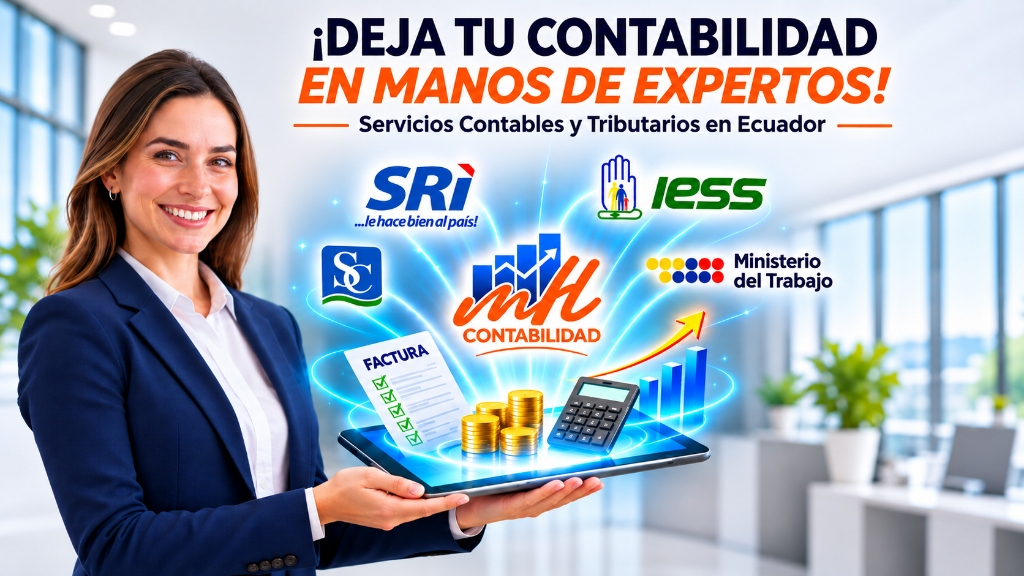
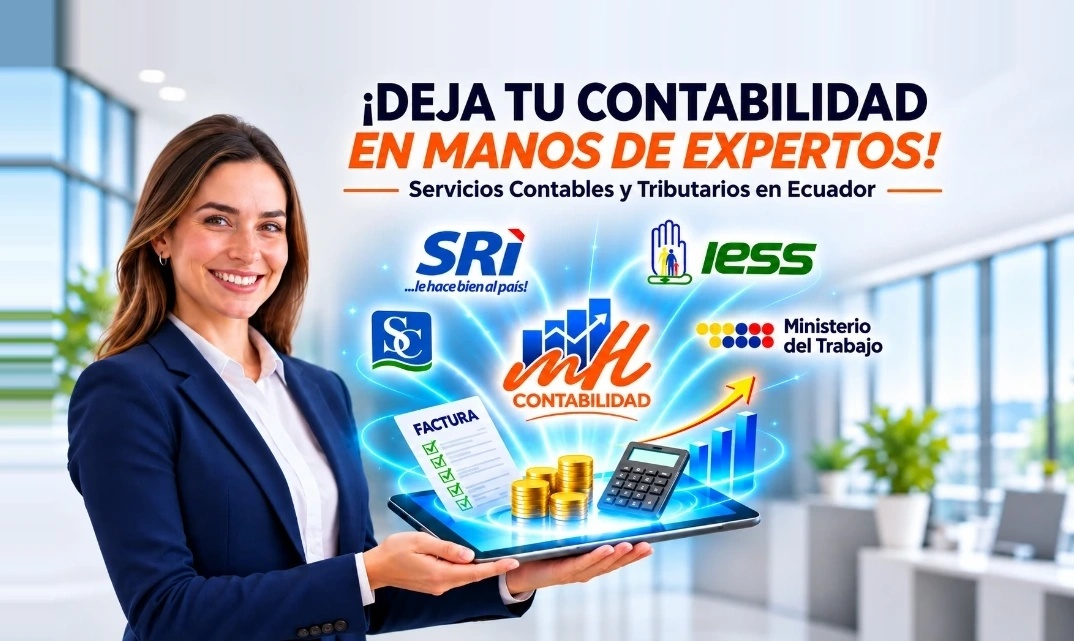
feat: optimizar encuadre de heroes, fondo continuo sin filos vacios y ajuste de diagonales

diff --git a/src/components/HeroSection.tsx b/src/components/HeroSection.tsx
@@ -3,7 +3,7 @@ import { Link } from 'react-router-dom';
 import { ArrowRight } from 'lucide-react';
 import { WhatsAppIcon } from './WhatsAppIcon';
 import { siteConfig } from '../data/siteConfig';
-import mhHeroBannerImg from '../assets/images/mh_banner_hero_oficial.webp?v=9';
+import mhHeroBannerImg from '../assets/images/mh_banner_hero_oficial.webp?v=10';
 
 export const HeroSection: React.FC = () => {
   const whatsappUrl = `https://wa.me/${siteConfig.phone.whatsappNumber}?text=${encodeURIComponent('Hola Ing. Mónica Herrera / MH Contabilidad, deseo cotizar una asesoría contable y tributaria personalizada.')}`;
@@ -68,18 +68,16 @@ export const HeroSection: React.FC = () => {
       <div className="hidden md:block">
         {/* Fondo Geométrico en Diagonal con Aristas Facetadas estilo Active Business Growth */}
         <div className="absolute inset-0 w-full h-full pointer-events-none z-0 overflow-hidden" aria-hidden="true">
-          {/* Imagen adaptada que rellena el espacio derecho con fondo integrado sin filos negros */}
+          {/* Imagen adaptada que rellena el espacio derecho ocupando todo el área sin filos vacíos */}
           <div className="absolute inset-y-0 right-0 w-[80%] lg:w-[82%] xl:w-[84%] 2xl:w-[85%] overflow-hidden bg-[#EAF1FB]">
-            <div className="w-full h-full pt-16 md:pt-20">
-              <img
-                src={mhHeroBannerImg}
-                alt="Servicios tributarios en Ecuador - MH Contabilidad"
-                className="w-full h-full object-contain object-[right_bottom] select-none filter brightness-[0.98]"
-                loading="eager"
-                fetchPriority="high"
-                decoding="async"
-              />
-            </div>
+            <img
+              src={mhHeroBannerImg}
+              alt="Servicios tributarios en Ecuador - MH Contabilidad"
+              className="w-full h-full object-contain object-[right_bottom] select-none filter brightness-[0.98]"
+              loading="eager"
+              fetchPriority="high"
+              decoding="async"
+            />
           </div>
 
           {/* Versión SVG vectorizada responsiva con línea divisora recta y bordes geométricos continuos */}
@@ -98,19 +96,19 @@ export const HeroSection: React.FC = () => {
 
             {/* Polígono oscuro principal izquierdo (#0A131F) */}
             <polygon
-              points="0,0 240,0 340,650 0,650"
+              points="0,0 260,0 360,650 0,650"
               fill="#0A131F"
             />
 
             {/* Franja continua azul a lo largo de toda la diagonal recta */}
             <polygon
-              points="246,0 266,0 366,650 346,650"
+              points="266,0 286,0 386,650 366,650"
               fill="#005BB2"
             />
 
             {/* Franja continua naranja MH completa, nítida e ininterrumpida de extremo a extremo */}
             <polygon
-              points="240,0 246,0 346,650 340,650"
+              points="260,0 266,0 366,650 360,650"
               fill="#FC6412"
             />
 
@@ -124,7 +122,7 @@ export const HeroSection: React.FC = () => {
           <div className="grid grid-cols-1 md:grid-cols-12 gap-6 lg:gap-8 items-center min-h-[520px] lg:min-h-[560px] xl:min-h-[600px] 2xl:min-h-[640px]">
             
             {/* Columna Izquierda: Información oficial centrada sobre el fondo oscuro con holgura respecto a la diagonal */}
-            <div className="md:col-span-5 lg:col-span-4 xl:col-span-4 pt-24 md:pt-26 lg:pt-28 pb-8 md:pb-10 space-y-4 text-center flex flex-col items-center justify-center max-w-[340px] sm:max-w-[360px] lg:max-w-[380px] mx-auto md:mx-0 md:-translate-x-4 lg:-translate-x-6 xl:-translate-x-8">
+            <div className="md:col-span-5 lg:col-span-4 xl:col-span-4 pt-24 md:pt-26 lg:pt-28 pb-8 md:pb-10 space-y-4 text-center flex flex-col items-center justify-center max-w-[340px] sm:max-w-[360px] lg:max-w-[380px] mx-auto md:mx-0 md:translate-x-1 lg:translate-x-2 xl:translate-x-3">
               {/* Título Principal con salto de línea tras 'Contable' */}
               <h1 className="text-2xl xs:text-3xl sm:text-4xl lg:text-[28px] xl:text-[32px] 2xl:text-[36px] font-black text-white tracking-tight leading-[1.18] text-center">
                 <span className="block">Tu Respaldo Contable</span>

diff --git a/src/pages/AboutPage.tsx b/src/pages/AboutPage.tsx
@@ -81,7 +81,7 @@ export const AboutPage: React.FC = () => {
         imageClassName="object-cover object-[center_35%]"
         mobileImageClassName="object-cover object-[center_top]"
         mobileContainerHeightClassName="h-72 xs:h-80 sm:h-96"
-        diagonalOffset={20}
+        diagonalOffset={-10}
       >
         {/* Accesos Rápidos */}
         <div className="pt-4 flex flex-wrap items-center justify-center gap-3">

diff --git a/src/pages/ServicesPage.tsx b/src/pages/ServicesPage.tsx
@@ -107,6 +107,7 @@ export const ServicesPage: React.FC = () => {
         image={heroImg}
         imageAlt="Servicios contables y tributarios profesionales en Ecuador"
         imageClassName="w-full h-full object-cover object-center"
+        diagonalOffset={-25}
       >
         {/* Accesos Rápidos */}
         <div className="pt-4 flex flex-wrap items-center justify-center gap-3">
